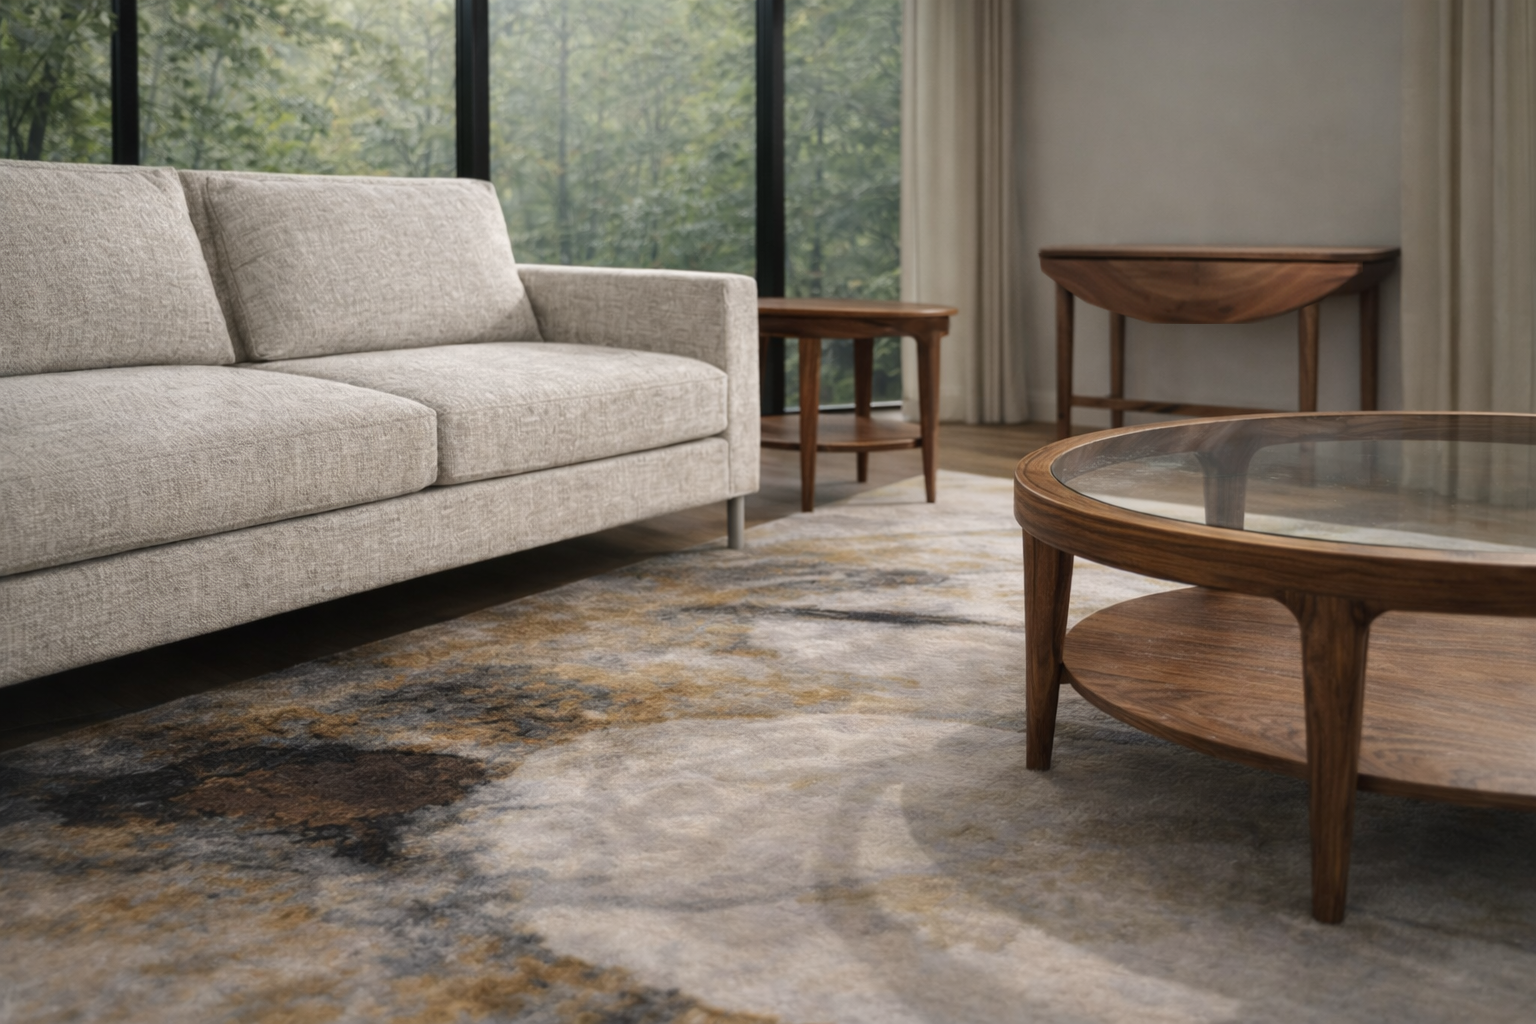
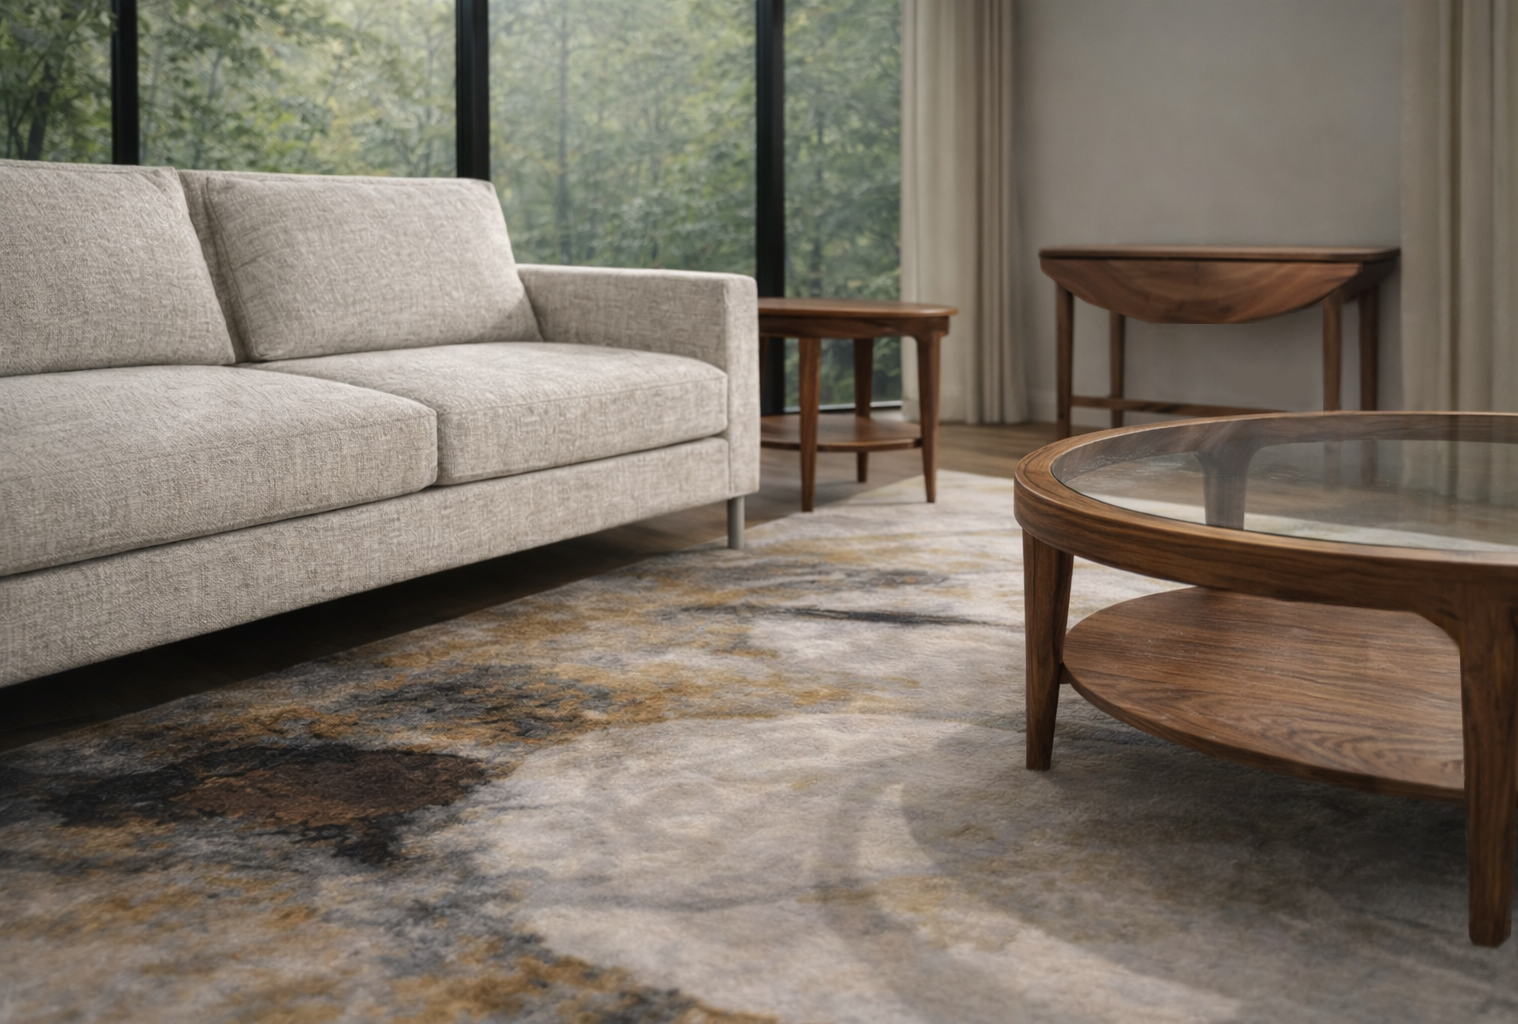
'ss'

diff --git a/big-screen.html b/big-screen.html
@@ -58,24 +58,30 @@
     .photo-zone {
       width: 50%;
       flex-shrink: 0;
-      position: relative;
+      display: flex;
+      flex-direction: column;
+      height: 100%;
       overflow: hidden;
-      /* background: #111; */
+    }
+
+    .photo-frame {
+      position: relative;
+      flex: 1 1 auto;
+      overflow: hidden;
+      min-height: 220px;
     }
 
     /*
-      The image fills the photo zone with object-fit:cover.
+      The image fills the photo frame with object-fit:cover.
       Because it is position:absolute inset:0, getBoundingClientRect()
-      returns the same rect as the photo-zone element itself.
-      Hotspot Y uses the photo-zone rect directly — no +offset needed.
-      We use object-position to crop the ceiling and show the furniture.
+      returns the same rect as the photo-frame element itself.
+      Hotspot Y uses the photo-frame rect directly.
     */
     .photo-zone__img {
     position: absolute;
     inset: 0;
     width: 100%;
-    /* height: 100%; */
-    height: auto;
+    height: 100%;
     object-fit: cover;
     object-position: 8% 35%;
     display: block;
@@ -84,11 +90,99 @@
     pointer-events: none;
 
     scale: 1;
-    margin: 150px 0 0 0;
 
     /* scale: .85;*/
     mask-image: linear-gradient(transparent 0%, black 20%);
     /* mask-image: radial-gradient(circle, black 78%, rgba(0, 0, 0, 0) 95%); */
+    }
+
+    .photo-zone__img--next {
+      z-index: 2;
+      opacity: 0;
+      transform: translateX(10px);
+    }
+
+    @keyframes slideFadeIn {
+      from { opacity: 0; transform: translateX(18px); }
+      to   { opacity: 1; transform: translateX(0); }
+    }
+    @keyframes slideFadeOut {
+      from { opacity: 1; transform: translateX(0); }
+      to   { opacity: 0; transform: translateX(-18px); }
+    }
+
+    .photo-zone__img.animate-in {
+      animation: slideFadeIn 0.9s ease forwards;
+    }
+    .photo-zone__img.animate-out {
+      animation: slideFadeOut 0.9s ease forwards;
+    }
+
+    .photo-footer {
+      display: flex;
+      align-items: center;
+      justify-content: space-between;
+      gap: 16px;
+      padding: 18px 22px 22px;
+      background: rgba(0, 0, 0, 0.04);
+      z-index: 5;
+    }
+
+    .photo-caption {
+      position: relative;
+      left: auto;
+      bottom: auto;
+      margin: 0;
+      font-family: sans-serif;
+      font-size: 0.78rem;
+      color: rgba(255,255,255,0.38);
+      letter-spacing: 0.04em;
+      pointer-events: none;
+      z-index: 1;
+      max-width: 100%;
+    }
+
+    .slide-controls {
+      position: relative;
+      right: auto;
+      bottom: auto;
+      display: flex;
+      gap: 12px;
+      align-items: center;
+      z-index: 1;
+      pointer-events: auto;
+      opacity: 1;
+    }
+    .slide-dot {
+      width: 14px;
+      height: 14px;
+      border-radius: 50%;
+      border: 1px solid rgba(255,255,255,0.55);
+      background: rgba(255,255,255,0.18);
+      cursor: pointer;
+      transition: transform 0.2s, background-color 0.2s, border-color 0.2s;
+      padding: 0;
+    }
+    .slide-dot:hover {
+      transform: scale(1.1);
+    }
+    .slide-dot.active {
+      background: rgba(255,255,255,0.95);
+      border-color: rgba(255,255,255,0.95);
+    }
+
+    @media (max-width: 900px) {
+      .photo-frame {
+        min-height: 200px;
+      }
+      .photo-footer {
+        flex-direction: column;
+        align-items: flex-start;
+        padding: 14px 16px 16px;
+      }
+      .slide-controls {
+        margin-top: 10px;
+      }
     }
 
     /* ── RIGHT: info panel — exactly 50% ── */
@@ -322,6 +416,13 @@ position: relative;
       .photo-zone__img {
         /* scale: .65; */
       }
+      .d-card {
+            width: min(1260px, 88vw);
+            min-height: 650px;
+      }
+      .d-img-col img {
+        max-height: 75%;
+      }
       /* Wider text block and larger logo for big screen */
       .content__inner {
         width: 80%;
@@ -348,10 +449,10 @@ position: relative;
         left: 530px;
         top: 195px;
       }
-      /* Caption repositioned — image is smaller/higher on big screen */
+      /* Caption repositioned for bigger screens while keeping bottom-left alignment */
       .photo-caption {
         bottom: 22px;
-        left: 145px;
+        left: 22px;
         font-size: 0.85rem;
       }
     }
@@ -387,11 +488,11 @@ position: relative;
 
     <!-- LEFT 50%: photo zone with hotspots -->
     <div class="photo-zone" id="photoZone">
+      <div class="photo-frame" id="photoFrame">
+        <img class="photo-zone__img" id="heroImg" src="img/1.png" alt="Scott Olivia showroom" draggable="false">
+        <img class="photo-zone__img photo-zone__img--next" id="heroImgNext" src="img/2.png" alt="Scott Olivia showroom" draggable="false" aria-hidden="true">
 
-      <img class="photo-zone__img" id="heroImg" src="img/1-b.png" alt="Scott Olivia showroom" draggable="false">
-      <p class="photo-caption" style="position:absolute; bottom:18px; left:55px; font-family:sans-serif; font-size:0.78rem; color:rgba(255,255,255,0.38); letter-spacing:0.04em; pointer-events:none; z-index:5;">Showroom featuring our current catalog items</p>
-
-      <!--
+        <!--
         HOTSPOT POSITIONS
         ─────────────────
         Image natural size: 2000 × H px (confirm with your file)
@@ -424,7 +525,15 @@ position: relative;
       <!-- Rug -->
       <div class="hs" data-pid="rug" data-ny="636" data-nh="202" style="left: 10.5%; width: 85.5%; top: 571.063px; height: 141.207px;"></div>
 
-
+      </div>
+      <div class="photo-footer">
+        <p class="photo-caption">Showroom featuring our current catalog items</p>
+        <div class="slide-controls" id="slideControls" aria-label="Slide navigation">
+          <button class="slide-dot active" type="button" data-index="0" aria-label="Slide 1"></button>
+          <button class="slide-dot" type="button" data-index="1" aria-label="Slide 2"></button>
+          <button class="slide-dot" type="button" data-index="2" aria-label="Slide 3"></button>
+        </div>
+      </div>
     </div>
 
     <!-- RIGHT 50%: info panel -->
@@ -498,17 +607,24 @@ position: relative;
        </div><div class="spec-row">
          <span class="spec-label">Description</span>
          <span class="spec-val">Geological abstraction — subtle tonal shifts of stone, sand and mineral create a grounding layer beneath any furniture arrangement.</span>
-       </div><div class="spec-row">
+       </div>
+       <div class="spec-row">
          <span class="spec-label">Sizes</span>
-         <span class="spec-val">8×10 ft · 9×12 ft · Custom</span>
-       </div><div class="spec-row">
+         <span class="spec-val">6x9 ft · 9×12 ft · Custom</span>
+       </div>
+              <div class="spec-row">
+         <span class="spec-label">Price</span>
+         <span class="spec-val">Starting at $4,495</span>
+       </div>
+       <div class="spec-row">
          <span class="spec-label">Availability</span>
          <span class="spec-val">Limited production run</span>
        </div></div>
       </div>
     </div>
   </div>
-
+         <!-- <span class="spec-label">Price</span>
+         <span class="spec-val">Starting at $4,495</span> -->
   <script>
   /* ── Logo fallback ── */
   const logoImg = document.getElementById('logoImg');
@@ -539,6 +655,86 @@ position: relative;
     formSuccess.classList.add('visible');
     setTimeout(() => formSuccess.classList.remove('visible'), 6000);
   });
+
+  /* ── Slide show ── */
+  const slides = ['img/1.png', 'img/2.png', 'img/3.png'];
+  const slideDelay = 5000;
+  const photoZoneEl = document.getElementById('photoZone');
+  const heroImgEl = document.getElementById('heroImg');
+  const heroImgNextEl = document.getElementById('heroImgNext');
+  const slideDots = document.querySelectorAll('.slide-dot');
+
+  let currentSlide = 0;
+  let slideTimer = null;
+  let isPaused = false;
+  let isAnimating = false;
+
+  function updateSlideDots() {
+    slideDots.forEach(dot => dot.classList.toggle('active', Number(dot.dataset.index) === currentSlide));
+  }
+
+  function scheduleNextSlide() {
+    clearTimeout(slideTimer);
+    if (isPaused) return;
+    slideTimer = setTimeout(() => changeSlide((currentSlide + 1) % slides.length), slideDelay);
+  }
+
+  function changeSlide(nextIndex) {
+    if (nextIndex === currentSlide || isAnimating) return;
+    const outgoingImg = heroImgEl;
+    const incomingImg = heroImgNextEl;
+
+    incomingImg.classList.remove('animate-in', 'animate-out');
+    outgoingImg.classList.remove('animate-in', 'animate-out');
+
+    function beginTransition() {
+      incomingImg.removeEventListener('load', beginTransition);
+      isAnimating = true;
+      requestAnimationFrame(() => {
+        incomingImg.classList.add('animate-in');
+        outgoingImg.classList.add('animate-out');
+      });
+    }
+
+    incomingImg.addEventListener('load', beginTransition);
+    incomingImg.src = slides[nextIndex];
+
+    incomingImg.addEventListener('animationend', function handler() {
+      incomingImg.removeEventListener('animationend', handler);
+      outgoingImg.src = slides[nextIndex];
+      outgoingImg.classList.remove('animate-out');
+      incomingImg.classList.remove('animate-in');
+      currentSlide = nextIndex;
+      isAnimating = false;
+      updateSlideDots();
+      scheduleNextSlide();
+    });
+  }
+
+  slideDots.forEach(dot => {
+    dot.addEventListener('click', () => {
+      const targetIndex = Number(dot.dataset.index);
+      if (targetIndex === currentSlide) return;
+      changeSlide(targetIndex);
+    });
+  });
+
+  function pauseSlides() {
+    isPaused = true;
+    clearTimeout(slideTimer);
+  }
+
+  function resumeSlides() {
+    if (!isPaused) return;
+    isPaused = false;
+    scheduleNextSlide();
+  }
+
+  photoZoneEl.addEventListener('mouseenter', pauseSlides);
+  photoZoneEl.addEventListener('mouseleave', resumeSlides);
+
+  updateSlideDots();
+  scheduleNextSlide();
 
   /* ── Product data ── */
   const PRODUCTS = {
@@ -599,6 +795,7 @@ position: relative;
         { l:'Composition',  v:'Hand-knotted New Zealand wool; silk highlights' },
         { l:'Description',  v:'Geological abstraction — subtle tonal shifts of stone, sand and mineral create a grounding layer beneath any furniture arrangement.' },
         { l:'Sizes',        v:'8×10 ft · 9×12 ft · Custom' },
+        // { l:'Price',        v:'Starting at $4,495' },
         { l:'Availability', v:'Limited production run' },
       ]
     },
@@ -622,7 +819,7 @@ position: relative;
   const IMG_NAT_H = 1046;
 
   const heroImg   = document.getElementById('heroImg');
-  const photoZone = document.getElementById('photoZone');
+  const photoZone = document.getElementById('photoFrame');
   const hotspots  = document.querySelectorAll('.hs');
 
   let pastTip = document.getElementById('cursorTip');
